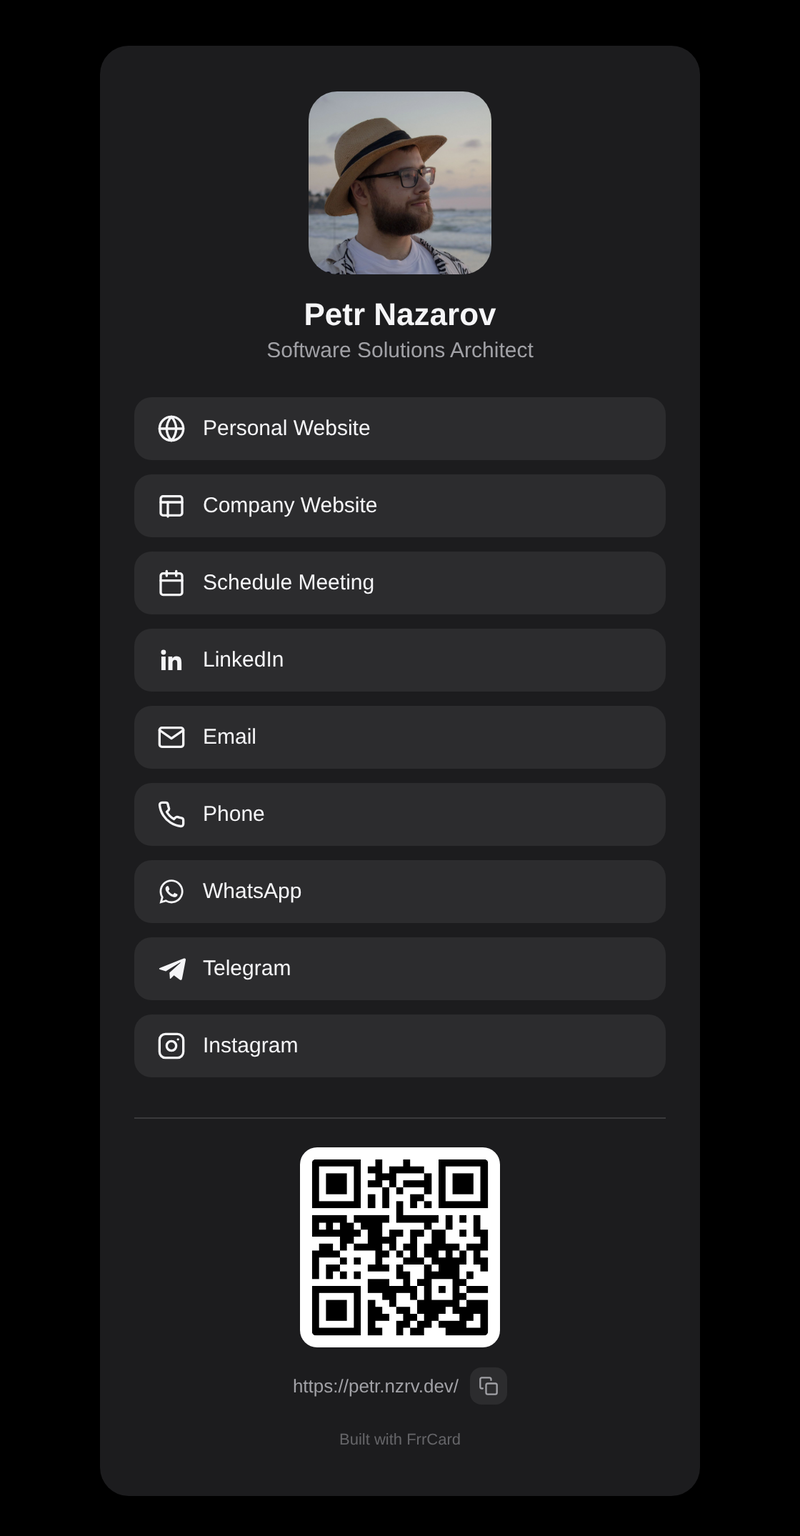
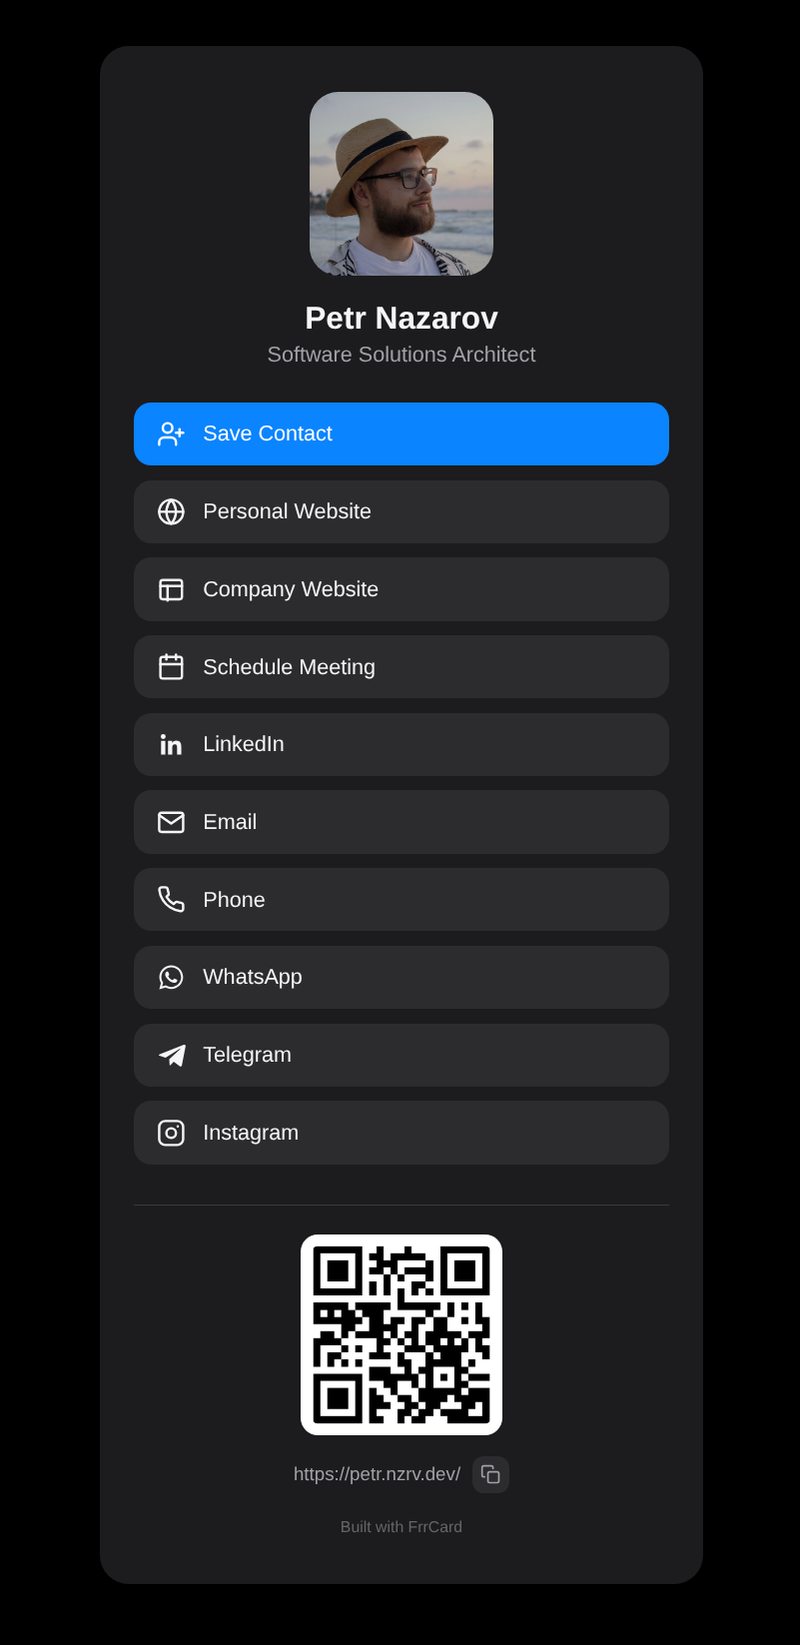
feat(vcard): add a downloadable contact file to every card
Each card now builds a dist/<name>/contact.vcf next to index.html and gets a
"Save Contact" button at the top of the links. The vCard is 3.0 — the dialect
iOS Contacts, Android and Outlook all read — and carries the name, job title,
optional organization, every link as a labelled property group, and the profile
photo base64-embedded so the saved contact keeps its picture offline.

Link types describe their own vCard property through the ICONS map, the same
way they already describe their icon and href. A photo that cannot be read,
is over 512 KB, or is not a JPEG/PNG/GIF/WebP degrades to a URL reference
instead of failing the build.

Opt out per card with "vcard": false.

Changed region(s): [[0.1562, 0.0312, 0.8438, 0.7188], [0.125, 0.7188, 0.875, 1.0], [0.875, 0.0625, 0.9062, 0.9375]]

diff --git a/build.js b/build.js
@@ -1,5 +1,6 @@
 #!/usr/bin/env node
-// Renders template.html against each data/*.json into dist/<name>/index.html
+// Renders template.html against each data/*.json into dist/<name>/index.html,
+// plus a downloadable dist/<name>/contact.vcf built from the same data.
 const fs = require('fs');
 const path = require('path');
 
@@ -10,63 +11,91 @@ const PUBLIC_DIR = path.join(ROOT, 'public');
 const DIST_DIR = path.join(ROOT, 'dist');
 const CREDIT_URL = 'https://apps.frrcode.com/en/frrcard/';
 
+const VCARD_FILE = 'contact.vcf';
+const VCARD_LABEL = 'Save Contact';
+const PHOTO_TIMEOUT_MS = 8000;
+// Base64 of anything much larger makes a .vcf that some address books refuse.
+const PHOTO_MAX_BYTES = 512 * 1024;
+
 // Small "Built with FrrCard" link in the card footer. Opt out per card with
 // `"credit": false` in the data file.
 const CREDIT_HTML =
   `    <a class="credit" href="${CREDIT_URL}" target="_blank" rel="noopener">Built with FrrCard</a>`;
 
+const VCARD_ICON =
+  '<svg viewBox="0 0 24 24" fill="none" stroke="currentColor" stroke-width="2" stroke-linecap="round" stroke-linejoin="round"><path d="M16 21v-2a4 4 0 0 0-4-4H6a4 4 0 0 0-4 4v2"/><circle cx="9" cy="7" r="4"/><line x1="19" y1="8" x2="19" y2="14"/><line x1="22" y1="11" x2="16" y2="11"/></svg>';
+
+// Each link type carries its icon, its default label, how to turn a bare value
+// into an href, and — optionally — the vCard property it becomes. vCard values
+// here are all URIs, phone numbers or addresses, so they are written verbatim;
+// only free text (names, labels) goes through escapeVcard().
 const ICONS = {
   website: {
     label: 'Personal Website',
     svg: '<svg viewBox="0 0 24 24" fill="none" stroke="currentColor" stroke-width="2" stroke-linecap="round" stroke-linejoin="round"><circle cx="12" cy="12" r="10"/><line x1="2" y1="12" x2="22" y2="12"/><path d="M12 2a15.3 15.3 0 0 1 4 10 15.3 15.3 0 0 1-4 10 15.3 15.3 0 0 1-4-10 15.3 15.3 0 0 1 4-10z"/></svg>',
     href: (v) => v,
     external: true,
+    vcard: (v) => ({ prop: 'URL', value: v }),
   },
   company: {
     label: 'Company Website',
     svg: '<svg viewBox="0 0 24 24" fill="none" stroke="currentColor" stroke-width="2" stroke-linecap="round" stroke-linejoin="round"><rect x="3" y="4" width="18" height="16" rx="2"/><path d="M3 9h18"/><path d="M9 21V9"/></svg>',
     href: (v) => v,
     external: true,
+    vcard: (v) => ({ prop: 'URL;TYPE=WORK', value: v }),
   },
   schedule: {
     label: 'Schedule Meeting',
     svg: '<svg viewBox="0 0 24 24" fill="none" stroke="currentColor" stroke-width="2" stroke-linecap="round" stroke-linejoin="round"><rect x="3" y="4" width="18" height="18" rx="2"/><line x1="16" y1="2" x2="16" y2="6"/><line x1="8" y1="2" x2="8" y2="6"/><line x1="3" y1="10" x2="21" y2="10"/></svg>',
     href: (v) => v,
     external: true,
+    vcard: (v) => ({ prop: 'URL', value: v }),
   },
   linkedin: {
     label: 'LinkedIn',
     svg: '<svg viewBox="0 0 24 24" fill="currentColor"><path d="M20.45 20.45h-3.55v-5.57c0-1.33-.02-3.04-1.85-3.04-1.86 0-2.14 1.45-2.14 2.94v5.67H9.36V9h3.41v1.56h.05c.48-.9 1.63-1.85 3.36-1.85 3.6 0 4.27 2.37 4.27 5.45v6.29zM5.34 7.43a2.06 2.06 0 1 1 0-4.12 2.06 2.06 0 0 1 0 4.12zM7.11 20.45H3.56V9h3.55v11.45z"/></svg>',
     href: (v) => v,
     external: true,
+    vcard: (v) => ({ prop: 'X-SOCIALPROFILE;TYPE=linkedin', value: v }),
   },
   email: {
     label: 'Email',
     svg: '<svg viewBox="0 0 24 24" fill="none" stroke="currentColor" stroke-width="2" stroke-linecap="round" stroke-linejoin="round"><rect x="2" y="4" width="20" height="16" rx="2"/><path d="M22 6 12 13 2 6"/></svg>',
     href: (v) => `mailto:${v}`,
+    vcard: (v) => ({ prop: 'EMAIL;TYPE=INTERNET', value: v }),
   },
   phone: {
     label: 'Phone',
     svg: '<svg viewBox="0 0 24 24" fill="none" stroke="currentColor" stroke-width="2" stroke-linecap="round" stroke-linejoin="round"><path d="M22 16.92v3a2 2 0 0 1-2.18 2 19.79 19.79 0 0 1-8.63-3.07 19.5 19.5 0 0 1-6-6 19.79 19.79 0 0 1-3.07-8.67A2 2 0 0 1 4.11 2h3a2 2 0 0 1 2 1.72c.127.96.361 1.903.7 2.81a2 2 0 0 1-.45 2.11L8.09 9.91a16 16 0 0 0 6 6l1.27-1.27a2 2 0 0 1 2.11-.45c.907.339 1.85.573 2.81.7A2 2 0 0 1 22 16.92z"/></svg>',
     href: (v) => `tel:${v.replace(/[\s-]/g, '')}`,
+    vcard: (v) => ({ prop: 'TEL;TYPE=CELL,VOICE', value: v.replace(/[\s-]/g, '') }),
   },
   whatsapp: {
     label: 'WhatsApp',
     svg: '<svg viewBox="0 0 24 24" fill="currentColor"><path d="M12.04 2C6.58 2 2.13 6.45 2.13 11.91c0 1.75.46 3.45 1.32 4.95L2.05 22l5.25-1.38a9.9 9.9 0 0 0 4.74 1.21h.01c5.46 0 9.91-4.45 9.91-9.91C21.96 6.45 17.5 2 12.04 2zm0 18.13a8.2 8.2 0 0 1-4.19-1.15l-.3-.18-3.11.82.83-3.03-.2-.31a8.2 8.2 0 0 1-1.26-4.38c0-4.54 3.7-8.24 8.25-8.24 2.2 0 4.27.86 5.83 2.42a8.18 8.18 0 0 1 2.41 5.83c0 4.55-3.7 8.24-8.26 8.24zm4.52-6.16c-.25-.12-1.47-.72-1.7-.81-.23-.08-.39-.12-.56.13-.17.24-.64.81-.79.97-.14.17-.29.19-.54.06-.25-.12-1.04-.38-1.98-1.22-.73-.65-1.23-1.46-1.37-1.7-.14-.25-.02-.38.11-.5.11-.11.25-.29.37-.43.12-.14.16-.25.25-.41.08-.17.04-.31-.02-.43-.06-.12-.56-1.36-.77-1.86-.2-.48-.41-.42-.56-.43-.14-.01-.31-.01-.48-.01-.17 0-.43.06-.66.31-.23.25-.86.85-.86 2.07 0 1.22.89 2.4 1.01 2.57.12.17 1.75 2.67 4.24 3.74.59.26 1.06.41 1.42.53.6.19 1.14.16 1.57.1.48-.07 1.47-.6 1.68-1.18.21-.58.21-1.07.14-1.18-.06-.1-.23-.16-.48-.28z"/></svg>',
     href: (v) => `https://wa.me/${v.replace(/[^\d]/g, '')}`,
     external: true,
+    vcard: (v) => ({ prop: 'X-SOCIALPROFILE;TYPE=whatsapp', value: `https://wa.me/${v.replace(/[^\d]/g, '')}` }),
   },
   telegram: {
     label: 'Telegram',
     svg: '<svg viewBox="0 0 24 24" fill="currentColor"><path d="M22 3.5 2.5 11.2c-1.1.44-1.1 1.06-.2 1.34l4.98 1.56L18.9 6.9c.5-.32.96-.15.58.2l-9.1 8.23h-.01l.35 5.1c.5 0 .72-.23 1-.5l2.4-2.35 5 3.7c.92.5 1.58.24 1.82-.86L23.94 5c.36-1.34-.5-1.94-1.94-1.5z"/></svg>',
     href: (v) => (v.startsWith('http') ? v : `https://t.me/${v.replace(/^@/, '')}`),
     external: true,
+    vcard: (v) => ({
+      prop: 'X-SOCIALPROFILE;TYPE=telegram',
+      value: v.startsWith('http') ? v : `https://t.me/${v.replace(/^@/, '')}`,
+    }),
   },
   instagram: {
     label: 'Instagram',
     svg: '<svg viewBox="0 0 24 24" fill="none" stroke="currentColor" stroke-width="2" stroke-linecap="round" stroke-linejoin="round"><rect x="2" y="2" width="20" height="20" rx="5"/><circle cx="12" cy="12" r="4"/><line x1="17.5" y1="6.5" x2="17.5" y2="6.5"/></svg>',
     href: (v) => (v.startsWith('http') ? v : `https://www.instagram.com/${v.replace(/^@/, '')}`),
     external: true,
+    vcard: (v) => ({
+      prop: 'X-SOCIALPROFILE;TYPE=instagram',
+      value: v.startsWith('http') ? v : `https://www.instagram.com/${v.replace(/^@/, '')}`,
+    }),
   },
 };
 
@@ -85,10 +114,113 @@ function renderLink(link) {
   return `      <a class="link" href="${escapeHtml(href)}"${target}>\n        ${icon.svg}\n        ${label}\n      </a>`;
 }
 
+// --- vCard -----------------------------------------------------------------
+
+// RFC 2426 text values: backslash, comma, semicolon and newlines are escaped.
+function escapeVcard(value) {
+  return String(value)
+    .replace(/\\/g, '\\\\')
+    .replace(/\r?\n/g, '\\n')
+    .replace(/([,;])/g, '\\$1');
+}
+
+// RFC 2426 says no line may exceed 75 octets; longer ones continue on the next
+// line behind a single space. Base64 photos depend on this.
+function foldLine(line) {
+  const bytes = Buffer.from(line, 'utf8');
+  if (bytes.length <= 75) return line;
+
+  const chunks = [];
+  let start = 0;
+  while (start < bytes.length) {
+    const width = chunks.length === 0 ? 75 : 74; // continuations spend one octet on the space
+    let end = Math.min(start + width, bytes.length);
+    // Never split in the middle of a UTF-8 sequence.
+    while (end > start + 1 && end < bytes.length && (bytes[end] & 0xc0) === 0x80) end--;
+    chunks.push((chunks.length ? ' ' : '') + bytes.subarray(start, end).toString('utf8'));
+    start = end;
+  }
+  return chunks.join('\r\n');
+}
+
+function imageType(contentType, src) {
+  const hint = (contentType || path.extname(src)).toLowerCase();
+  if (hint.includes('jpeg') || hint.includes('jpg')) return 'JPEG';
+  if (hint.includes('png')) return 'PNG';
+  if (hint.includes('gif')) return 'GIF';
+  if (hint.includes('webp')) return 'WEBP';
+  return null;
+}
+
+// Inlines the profile photo so the saved contact carries its own picture.
+// Anything that goes wrong (offline build, oversized image, odd format) falls
+// back to a plain URI reference rather than failing the build.
+async function photoProperty(data, key) {
+  const src = data.photoUrl;
+  const remote = /^https?:\/\//i.test(src);
+  try {
+    let buffer;
+    let type;
+    if (remote) {
+      const res = await fetch(src, { signal: AbortSignal.timeout(PHOTO_TIMEOUT_MS) });
+      if (!res.ok) throw new Error(`HTTP ${res.status}`);
+      buffer = Buffer.from(await res.arrayBuffer());
+      type = imageType(res.headers.get('content-type'), src);
+    } else {
+      buffer = fs.readFileSync(path.join(PUBLIC_DIR, key, src.replace(/^\.\//, '')));
+      type = imageType(null, src);
+    }
+    if (!type) throw new Error('unsupported image format');
+    if (buffer.length > PHOTO_MAX_BYTES) {
+      throw new Error(`${Math.round(buffer.length / 1024)} KB exceeds the ${PHOTO_MAX_BYTES / 1024} KB embed limit`);
+    }
+    return `PHOTO;ENCODING=b;TYPE=${type}:${buffer.toString('base64')}`;
+  } catch (err) {
+    console.warn(`  photo not embedded (${err.message}) — ${remote ? 'referencing its URL instead' : 'skipping it'}`);
+    return remote ? `PHOTO;VALUE=URI:${src}` : null;
+  }
+}
+
+function renderVcard(data, photo, canonicalUrl) {
+  const lines = [
+    'BEGIN:VCARD',
+    'VERSION:3.0',
+    `N:${escapeVcard(data.lastName)};${escapeVcard(data.firstName)};;;`,
+    `FN:${escapeVcard(data.name)}`,
+  ];
+  if (data.organization) lines.push(`ORG:${escapeVcard(data.organization)}`);
+  if (data.jobTitle) lines.push(`TITLE:${escapeVcard(data.jobTitle)}`);
+
+  // Property groups (`item1.URL` + `item1.X-ABLabel`) are plain vCard grammar,
+  // so the labels shown on the card survive the import into Contacts.
+  let group = 0;
+  for (const link of data.links) {
+    const icon = ICONS[link.type];
+    if (!icon) throw new Error(`Unknown link type: "${link.type}"`);
+    if (!icon.vcard) continue;
+    const { prop, value } = icon.vcard(link.value);
+    const name = `item${++group}`;
+    lines.push(`${name}.${prop}:${value}`);
+    lines.push(`${name}.X-ABLabel:${escapeVcard(link.label || icon.label)}`);
+  }
+
+  if (photo) lines.push(photo);
+  lines.push(`SOURCE:${canonicalUrl}`);
+  lines.push(`REV:${new Date().toISOString().replace(/\.\d+Z$/, 'Z')}`);
+  lines.push('END:VCARD');
+
+  return lines.map(foldLine).join('\r\n') + '\r\n';
+}
+
+// --- page ------------------------------------------------------------------
+
 function render(template, data) {
   const linksHtml = data.links.map(renderLink).join('\n');
   const canonicalUrl = `https://${data.domain}/`;
   const qrTarget = data.qrTarget || canonicalUrl;
+  const vcardHtml = data.vcard === false
+    ? ''
+    : `      <a class="link link-primary" href="./${VCARD_FILE}" type="text/vcard">\n        ${VCARD_ICON}\n        ${escapeHtml(data.vcardLabel || VCARD_LABEL)}\n      </a>\n`;
 
   const replacements = {
     NAME: data.name,
@@ -102,6 +234,7 @@ function render(template, data) {
     OG_IMAGE: data.photoUrl,
     QR_IMAGE: `https://api.qrserver.com/v1/create-qr-code/?size=280x280&data=${encodeURIComponent(qrTarget)}`,
     QR_LABEL: data.domain,
+    VCARD: vcardHtml,
     LINKS: linksHtml,
     CREDIT: data.credit === false ? '' : CREDIT_HTML,
   };
@@ -112,7 +245,7 @@ function render(template, data) {
   });
 }
 
-function main() {
+async function main() {
   const template = fs.readFileSync(TEMPLATE_PATH, 'utf8');
   const files = fs.readdirSync(DATA_DIR).filter((f) => f.endsWith('.json'));
 
@@ -130,7 +263,17 @@ function main() {
     }
 
     console.log(`built dist/${key}/index.html (${data.domain})`);
+
+    if (data.vcard !== false) {
+      const canonicalUrl = `https://${data.domain}/`;
+      const photo = await photoProperty(data, key);
+      fs.writeFileSync(path.join(outDir, VCARD_FILE), renderVcard(data, photo, canonicalUrl));
+      console.log(`built dist/${key}/${VCARD_FILE} (${data.name})`);
+    }
   }
 }
 
-main();
+main().catch((err) => {
+  console.error(err.message);
+  process.exit(1);
+});

diff --git a/template.html b/template.html
@@ -32,6 +32,9 @@
     --border: #e5e5ea;
     --link-bg: #f2f2f7;
     --link-bg-hover: #e5e5ea;
+    --accent: #0071e3;
+    --accent-hover: #0060c0;
+    --accent-text: #ffffff;
   }
   @media (prefers-color-scheme: dark) {
     :root {
@@ -42,6 +45,9 @@
       --border: #3a3a3c;
       --link-bg: #2c2c2e;
       --link-bg-hover: #3a3a3c;
+      --accent: #0a84ff;
+      --accent-hover: #3b9dff;
+      --accent-text: #ffffff;
     }
   }
 
@@ -113,6 +119,16 @@
   .link:active,
   .link:hover {
     background: var(--link-bg-hover);
+  }
+
+  .link-primary {
+    background: var(--accent);
+    color: var(--accent-text);
+  }
+
+  .link-primary:active,
+  .link-primary:hover {
+    background: var(--accent-hover);
   }
 
   .link svg {
@@ -217,7 +233,7 @@
     <p class="title">{{JOB_TITLE}}</p>
 
     <div class="links">
-{{LINKS}}
+{{VCARD}}{{LINKS}}
     </div>
 
     <div class="qr-section">
